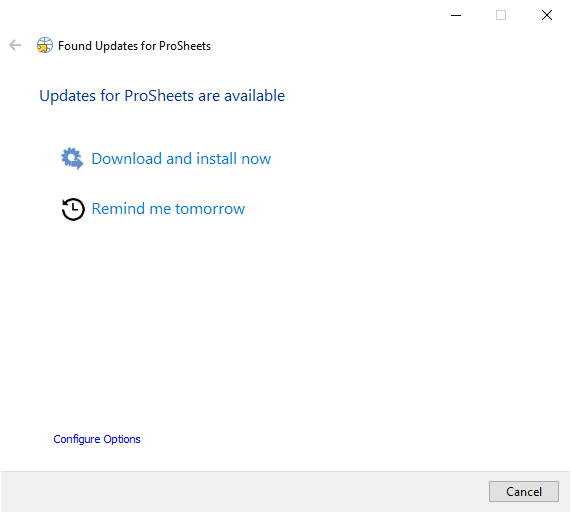
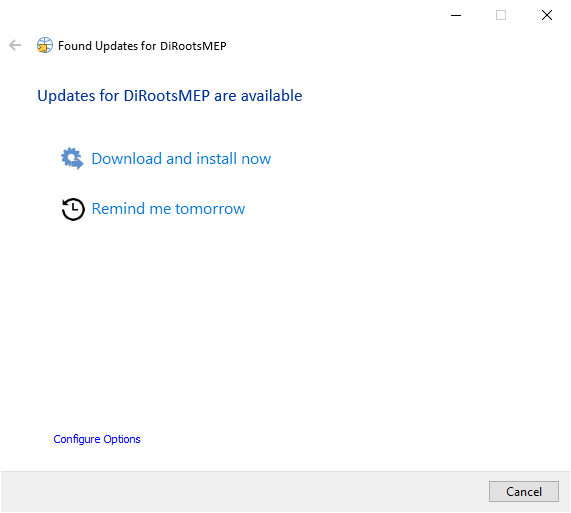
User Manual Update

Changed region(s): [[0.0595, 0.1559, 0.5359, 0.2183], [0.268, 0.0624, 0.387, 0.1248]]

diff --git a/docs/getting-started.md b/docs/getting-started.md
@@ -19,18 +19,18 @@ nav_order: 2
 
 ## Download
 
-Download the [latest version of DiRootsMEP](https://diroots.com/revit-plugins/revit-to-pdf-dwg-dgn-dwf-nwc-ifc-and-images-with-dirootsmep/).
+Download the [latest version of DiRootsMEP](https://diroots.com/revit-plugins/dirootsmep/).
 
 
 ## Install
 
 ### Compatibility
 - Windows 7, 8, 10 and 11.
-- Revit 2017, 2018, 2019, 2020, 2021, 2022, 2023, 2024, 2025, 2026.
+- Revit 2020, 2021, 2022, 2023, 2024, 2025, 2026.
 
 ### Prerequisites
 - Admin permissions.
-- PDF24 (the compatible version will be automatically installed. Dont't do it manually).
+
 
 ```yaml
 # Remarks
@@ -48,11 +48,11 @@ This method is ideal for individuals with admin permissions who want to install 
 
 2. Select the Revit versions and click 'Install'.
 
-![DiRootsMEP Installation First Step](../assets\images\PS-Install.gif)
+![DiRootsMEP Installation First Step](../assets\images\DMEP-Install.gif)
 
 3 . Wait for the installation to complete and click 'Finish'.
 
-![DiRootsMEP Installation Finish](../assets\images\PS-Complete.png)
+![DiRootsMEP Installation Finish](../assets\images\DMEP-Complete.png)
 
 4. Restart your computer. Don't Skip this step.
 
@@ -72,24 +72,18 @@ This method is ideal for IT administrators who want to deploy DiRootsMEP to mult
 - Disable automatic check for update (i.e., users won't be prompt to install updates).
 
 ```yaml
-# In this example DiRootsOne will NOT be installed for Revit 2017, 2018, and 2019.
+# In this example, DiRootsMEP will be installed silently with the automatic update feature turned off.
 <installer-name>.exe /i // /qn accept_eula=1 UPDATER="FALSE"
 ```
 
 - Exclude specific Revit versions.
 
 ```yaml
-# In this example DiRootsMEP will NOT be installed for Revit 2017, 2018, and 2019.
-<installer-name>.exe /i // /qn accept_eula=1 revit2017="" revit2018="" revit2019=""
+# In this example DiRootsMEP will NOT be installed for Revit 2020, 2021, and 2022.
+<installer-name>.exe /i // /qn accept_eula=1 revit2020"" revit2021="" revit2022=""
 ```
 
-- Skip PDF24 install. 
-Warning: You will only be able to export to PDF using the native Revit PDF exporter, which is available only in Revit 2022 or newer and requires a [DiRootsMEP Premium license](https://diroots.com/revit-plugins/quote-request/).
 
-```yaml
-# In this example DiRootsMEP will be installed without PDF24
-<installer-name>.exe /i // /qn accept_eula=1 INSTALL_PDF24=""
-```
 
 ## Uninstall
 
@@ -99,13 +93,11 @@ Warning: You will only be able to export to PDF using the native Revit PDF expor
 
 2. Select and click 'Remove'.
 
-![DiRootsMEP Uninstall](../assets\images\PS-Remove.gif)
+![DiRootsMEP Uninstall](../assets\images\DMEP-Remove.gif)
 
 3 . Wait for the uninstallation to complete and click 'Finish'.
 
-```yaml
-# Remarks.
-PDF24 shipped with DiRootsMEP won't be uninstalled. If you want to remove it, uninstall it manually.
+
 ```
 
 ### Using the installer silently